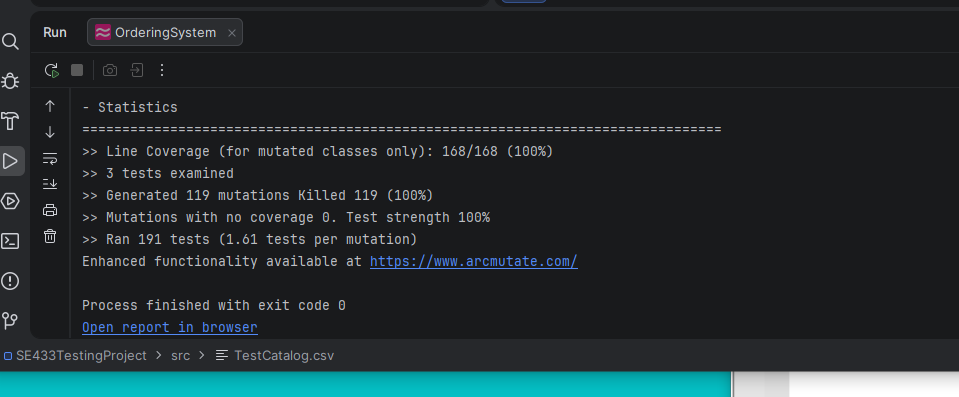
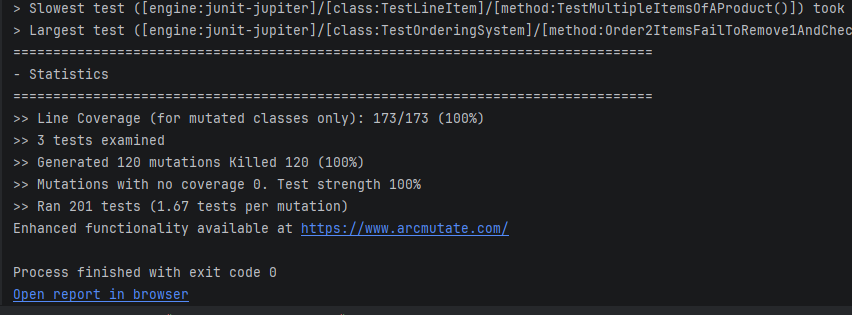
Improved test and verified all mutants killed. Updated PNG shots Fixed to handle exception on input

Changed region(s): [[0.0, 0.0, 1.0, 1.0], [0.0, 0.7714, 0.0305, 0.8286]]

diff --git a/tests/TestOrderingSystem.java b/tests/TestOrderingSystem.java
@@ -148,7 +148,7 @@ public class TestOrderingSystem
     String cartContents = "1) Brake Pads and Calipers quantity: 100, total cost:45,565.00 ";
     String lastMessage = "Thank you for the order, Jim Your order will be sent using standard shipping. " +
             "Your total cost is: Total cost of items in cart: $45,565.00 Shipping: $0.00 " +
-            "Tax: $0.00 Grand total: $45,565.00 ";
+            "Tax: $0.00 Grand total: $45,565.00 Transaction completed";
 
     String expected = startupString + catalogText  + Messages.quantityToAddPrompt + addedPadsMessage
             + Messages.menu2 + cartContents + Messages.menu2 + lastMessage;
@@ -234,7 +234,7 @@ public class TestOrderingSystem
     String cartContents = "1) Brake Pads and Calipers quantity: 100, total cost:45,565.00 ";
     String lastMessage = "Thank you for the order, Sally Your order will be sent using standard shipping. " +
             "Your total cost is: Total cost of items in cart: $45,565.00 Shipping: $0.00 " +
-            "Tax: $2,733.90 Grand total: $48,298.90 ";
+            "Tax: $2,733.90 Grand total: $48,298.90 Transaction completed";
 
     String expected = startupString + catalogText + Messages.quantityToAddPrompt + addedPadsMessage
             +Messages.menu2 + cartContents + Messages.menu2 + lastMessage;
@@ -250,7 +250,7 @@ public class TestOrderingSystem
     String cartContents = "1) Brake Pads and Calipers quantity: 100, total cost:45,565.00 ";
     String lastMessage = "Thank you for the order, Sally Your order will be sent using next day shipping. " +
             "Your total cost is: Total cost of items in cart: $45,565.00 Shipping: $25.00 " +
-            "Tax: $2,733.90 Grand total: $48,323.90 ";
+            "Tax: $2,733.90 Grand total: $48,323.90 Transaction completed";
 
     String expected = startupString + catalogText + Messages.quantityToAddPrompt + addedPadsMessage
             +Messages.menu2 + cartContents + Messages.menu2 + lastMessage;
@@ -262,16 +262,16 @@ public class TestOrderingSystem
   {
     // This is IL, so add tax, no shipping because it's over the limit
     //   The 22 and -1 below are invalid choices and 0 and 17 for borders
-    String simulatedInput = "Sally\nIL\nN\nA\n22\n-1\n0\n17\n13\n1\nO\n";
+    String simulatedInput = "Sally\nIL\nN\nA\n22\n-1\n0\n17\nSix\n13\n1\nO\n";
 
     String cartContents = "1) Brake Pads and Calipers quantity: 1, total cost:455.65 ";
     String lastMessage = "Thank you for the order, Sally Your order will be sent using next day shipping. " +
             "Your total cost is: Total cost of items in cart: $455.65 Shipping: $25.00 " +
-            "Tax: $27.34 Grand total: $507.99 ";
+            "Tax: $27.34 Grand total: $507.99 Transaction completed";
 
     String choiceError = "Enter a number between 1 and 16: ";
 
-    String expected = startupString + catalogText + choiceError + choiceError + choiceError + choiceError
+    String expected = startupString + catalogText + choiceError + choiceError + choiceError + choiceError + choiceError
             + Messages.quantityToAddPrompt + addedPadsMessage
             +Messages.menu2 + lastMessage;
     RunTestOrder(simulatedInput, expected);
@@ -286,7 +286,7 @@ public class TestOrderingSystem
     String cartContents = "1) Brake Pads and Calipers quantity: 100, total cost:45,565.00 ";
     String lastMessage = "Thank you for the order, Sally Your order will be sent using standard shipping. " +
             "Your total cost is: Total cost of items in cart: $45,565.00 Shipping: $0.00 " +
-            "Tax: $2,733.90 Grand total: $48,298.90 ";
+            "Tax: $2,733.90 Grand total: $48,298.90 Transaction completed";
 
     String expected = startupString + catalogText + Messages.quantityToAddPrompt + addedPadsMessage
             +Messages.menu2 + cartContents + Messages.menu2 + lastMessage;
@@ -302,7 +302,7 @@ public class TestOrderingSystem
     String cartContents = "1) Brake Pads and Calipers quantity: 100, total cost:45,565.00 ";
     String lastMessage = "Thank you for the order, Sally Your order will be sent using standard shipping. " +
             "Your total cost is: Total cost of items in cart: $45,565.00 Shipping: $0.00 " +
-            "Tax: $2,733.90 Grand total: $48,298.90 ";
+            "Tax: $2,733.90 Grand total: $48,298.90 Transaction completed";
 
     String expected = startupString + catalogText + Messages.quantityToAddPrompt + addedPadsMessage
             +Messages.menu2 + cartContents + Messages.menu2 + lastMessage;
@@ -319,7 +319,7 @@ public class TestOrderingSystem
 
     String lastMessage = "Thank you for the order, Paul Your order will be sent using standard shipping. " +
             "Your total cost is: Total cost of items in cart: $45,109.35 Shipping: $0.00 " +
-            "Tax: $0.00 Grand total: $45,109.35 ";
+            "Tax: $0.00 Grand total: $45,109.35 Transaction completed";
 
     String expected = startupString + catalogText + Messages.quantityToAddPrompt + addedPadsMessage
             +Messages.menu2 + Messages.editNumberPrompt + cartContents + Messages.newQuantityPrompt
@@ -340,7 +340,7 @@ public class TestOrderingSystem
 
     String lastMessage = "Thank you for the order, Paul Your order will be sent using standard shipping. " +
             "Your total cost is: Total cost of items in cart: $11.95 Shipping: $10.00 " +
-            "Tax: $0.00 Grand total: $21.95 ";
+            "Tax: $0.00 Grand total: $21.95 Transaction completed";
 
     String expected = startupString + catalogText + Messages.quantityToAddPrompt + addedPadsMessage
             + Messages.menu2 + catalogText + Messages.quantityToAddPrompt + addedFilterMessage
@@ -355,7 +355,7 @@ public class TestOrderingSystem
     // This is NJ, no tax, standard shipping
     // the 4 below is item #4 we try to remove. That should fail.
     // Then try again with the 1 option
-    String simulatedInput = "Paul\nNJ\nS\nA\n13\n1\nA\n1\n1\nR\n0\n-1\n3\n1\nO\n";
+    String simulatedInput = "Paul\nNJ\nS\nA\n13\n1\nA\n1\n1\nR\n0\n-1\nSix\n3\n1\nO\n";
 
     String cartContents = "1) Brake Pads and Calipers quantity: 1, total cost:455.65 ";
     String addedFilterMessage = "Air Filter has been added to the shopping cart. ";
@@ -364,11 +364,12 @@ public class TestOrderingSystem
     String removalError = "Enter a number between 1 and 2: ";
     String lastMessage = "Thank you for the order, Paul Your order will be sent using standard shipping. " +
             "Your total cost is: Total cost of items in cart: $11.95 Shipping: $10.00 " +
-            "Tax: $0.00 Grand total: $21.95 ";
+            "Tax: $0.00 Grand total: $21.95 Transaction completed";
 
     String expected = startupString + catalogText + Messages.quantityToAddPrompt + addedPadsMessage
             + Messages.menu2 + catalogText + Messages.quantityToAddPrompt + addedFilterMessage
-            + Messages.menu2 + Messages.removeNumberPrompt + shoppingCart2 + removalError + removalError+ removalError+ Messages.removedMessage
+            + Messages.menu2 + Messages.removeNumberPrompt + shoppingCart2 + removalError + removalError
+            + removalError + removalError + Messages.removedMessage
             + Messages.menu2 + lastMessage;
     RunTestOrder(simulatedInput, expected);
   }
@@ -388,7 +389,7 @@ public class TestOrderingSystem
     String removalError = "Enter a number between 1 and 2: ";
     String lastMessage = "Thank you for the order, Paul Your order will be sent using standard shipping. " +
             "Your total cost is: Total cost of items in cart: $11.95 Shipping: $10.00 " +
-            "Tax: $0.00 Grand total: $21.95 ";
+            "Tax: $0.00 Grand total: $21.95 Transaction completed";
 
     String expected = startupString + catalogText + Messages.quantityToAddPrompt + addedPadsMessage
             + Messages.menu2 + catalogText + Messages.quantityToAddPrompt + addedFilterMessage
@@ -409,7 +410,7 @@ public class TestOrderingSystem
 
     String lastMessage = "Thank you for the order, Paul Your order will be sent using standard shipping. " +
             "Your total cost is: Total cost of items in cart: $467.60 Shipping: $0.00 " +
-            "Tax: $0.00 Grand total: $467.60 ";
+            "Tax: $0.00 Grand total: $467.60 Transaction completed";
 
     String expected = startupString + catalogText + Messages.quantityToAddPrompt + addedPadsMessage
             + Messages.menu2 + catalogText + Messages.quantityToAddPrompt + addedFilterMessage
@@ -433,7 +434,7 @@ public class TestOrderingSystem
 
     String lastMessage = "Thank you for the order, Paul Your order will be sent using standard shipping. " +
             "Your total cost is: Total cost of items in cart: $50.01 Shipping: $0.00 " +
-            "Tax: $0.00 Grand total: $50.01 ";
+            "Tax: $0.00 Grand total: $50.01 Transaction completed";
 
     String expected = startupString + testCatalogText + Messages.quantityToAddPrompt + addedMessage1
             + Messages.menu2 + totalMessage1
@@ -450,18 +451,20 @@ public class TestOrderingSystem
   {
     // This is NJ, no tax, no shipping because it's over the limit
     // This will try to change the quantity but it will try to change product #2 when there is just one
-    String simulatedInput = "Paul\nNJ\nS\nA\n13\n100\nE\n2\n1\n99\nO\n";
+    String simulatedInput = "Paul\nNJ\nS\nA\n13\n100\nE\n2\n1\nSix\n99\nO\n";
 
     String cartContents = "1) Brake Pads and Calipers quantity: 100, total cost:45,565.00 ";
+    String QuantityError = "Enter a number between 1 and 100: ";
 
     String quantityErrorMessage = "Enter a number between 1 and 1: ";
     String lastMessage = "Thank you for the order, Paul Your order will be sent using standard shipping. " +
             "Your total cost is: Total cost of items in cart: $45,109.35 Shipping: $0.00 " +
-            "Tax: $0.00 Grand total: $45,109.35 ";
+            "Tax: $0.00 Grand total: $45,109.35 Transaction completed";
 
     String expected = startupString + catalogText + Messages.quantityToAddPrompt + addedPadsMessage
             + Messages.menu2 + Messages.editNumberPrompt + cartContents + quantityErrorMessage
-            + Messages.newQuantityPrompt + Messages.quantityUpdatedMessage + Messages.menu2 + lastMessage;
+            + Messages.newQuantityPrompt + QuantityError + Messages.quantityUpdatedMessage
+            + Messages.menu2 + lastMessage;
     RunTestOrder(simulatedInput, expected);
   }
 
@@ -476,7 +479,7 @@ public class TestOrderingSystem
 
     String lastMessage = "Thank you for the order, Paul Your order will be sent using standard shipping. " +
             "Your total cost is: Total cost of items in cart: $24,995.00 Shipping: $0.00 " +
-            "Tax: $0.00 Grand total: $24,995.00\n";
+            "Tax: $0.00 Grand total: $24,995.00\nTransaction completed";
 
     String expected = startupString + catalogText + Messages.quantityToAddPrompt + addedMessage
             + Messages.menu2 + Messages.editNumberPrompt + cartContents  + Messages.newQuantityPrompt  + Messages.orderTooLargeMessage
@@ -496,7 +499,7 @@ public class TestOrderingSystem
 
     String lastMessage = "Thank you for the order, Paul Your order will be sent using standard shipping. " +
             "Your total cost is: Total cost of items in cart: $99,991.95 Shipping: $0.00 " +
-            "Tax: $0.00 Grand total: $99,991.95 ";
+            "Tax: $0.00 Grand total: $99,991.95 Transaction completed";
 
     String expected = startupString + catalogText + Messages.quantityToAddPrompt + addedMessage1
             + Messages.menu2 + catalogText + Messages.quantityToAddPrompt + addedMessage2

diff --git a/src/OrderingSystem.java b/src/OrderingSystem.java
@@ -24,7 +24,10 @@ public class OrderingSystem
     int selection =0;
     while (selection > catalog.size() || selection <=0)     {
       String line = scan.nextLine();
-      selection = Integer.parseInt(line);
+      try       {
+        selection = Integer.parseInt(line);
+      } catch(NumberFormatException e) {
+        selection = -1; }
       if (selection > catalog.size() || selection <=0)
         System.out.println("\nEnter a number between 1 and "+catalog.size()+":\n ");
     }
@@ -35,7 +38,10 @@ public class OrderingSystem
     int quantity=0;
     while (quantity <= 0 || quantity >max)     {
       String line = scan.nextLine();
-      quantity = Integer.parseInt(line);
+      try       {
+        quantity = Integer.parseInt(line);
+      } catch(NumberFormatException e) {
+        quantity = -1; }
       if (quantity <= 0 || quantity > max)
         System.out.println("\nEnter a number between 1 and "+max+":\n ");
     }
@@ -50,7 +56,7 @@ public class OrderingSystem
 
   private String GetSelection() {
     while (true) {
-      System.out.println("\nMake a selection from this list (enter one letter and press Enter:");
+      System.out.println("\nMake a selection from this list (enter one letter and press Enter):");
       System.out.println("A = Add item to the shopping cart");
 
       if (shoppingCart.isEmpty()) {
@@ -180,6 +186,7 @@ public class OrderingSystem
       System.out.println("Your order will be sent using " +
               (shippingType==ShippingType.STANDARD?"standard":"next day") + " shipping.\nYour total cost is:");
       DisplayTotals();
+      System.out.println("Transaction completed");
     }
   }
 

diff --git a/src/Messages.java b/src/Messages.java
@@ -16,13 +16,13 @@ public class Messages
           """;
 
   public final static String menu1 = """
-          Make a selection from this list (enter one letter and press Enter:
+          Make a selection from this list (enter one letter and press Enter):
           A = Add item to the shopping cart
           X = Exit
           """;
 
   public final static String menu2 = """
-          Make a selection from this list (enter one letter and press Enter:
+          Make a selection from this list (enter one letter and press Enter):
           A = Add item to the shopping cart
           T = Get current total
           C = See contents of shopping cart
